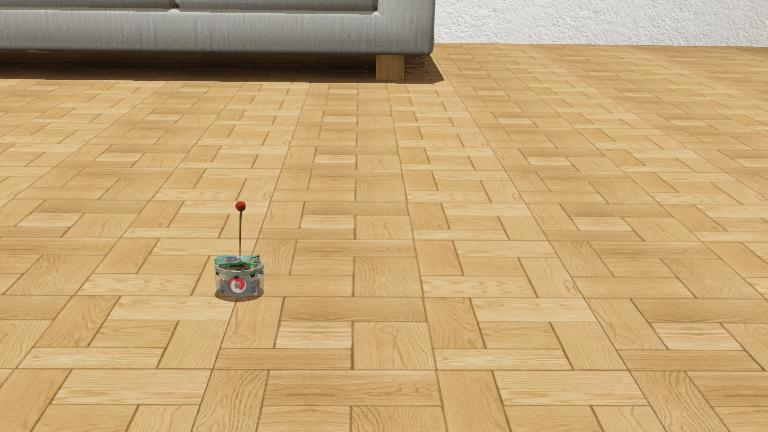
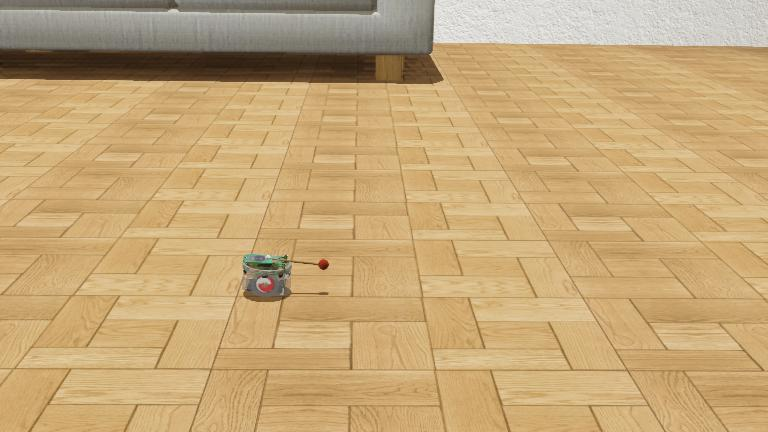
final commit

diff --git a/controllers/participant/participant.py b/controllers/participant/participant.py
@@ -23,9 +23,9 @@ rightMotor.setVelocity(0.0)
 maxSpeed = min(rightMotor.getMaxVelocity(), leftMotor.getMaxVelocity())
 
 # Define the PID control constants and variables.
-KP = 31.4
-KI = 100.5
-KD = 0
+KP = 150
+KI = 10
+KD = 1
 integral = 0.0
 previous_position = 0.0
 